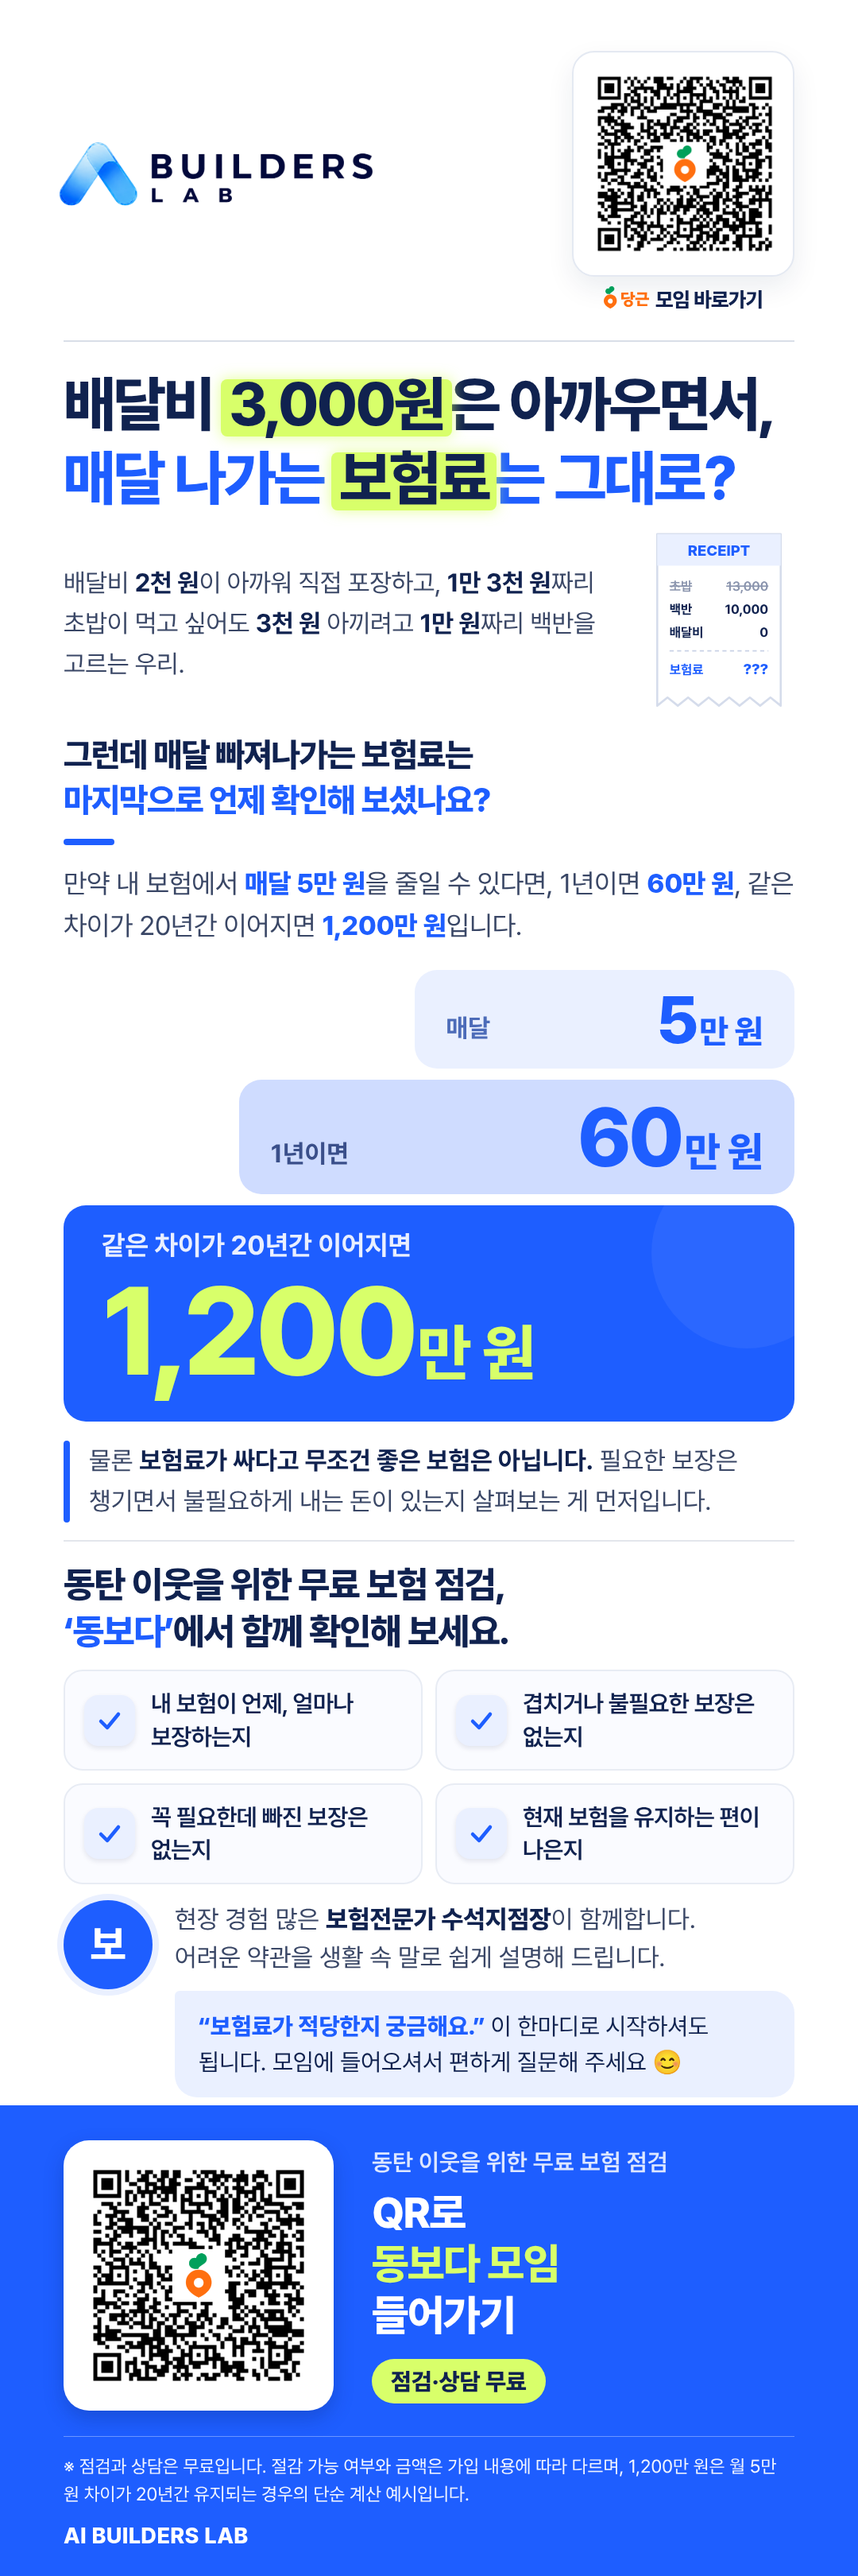
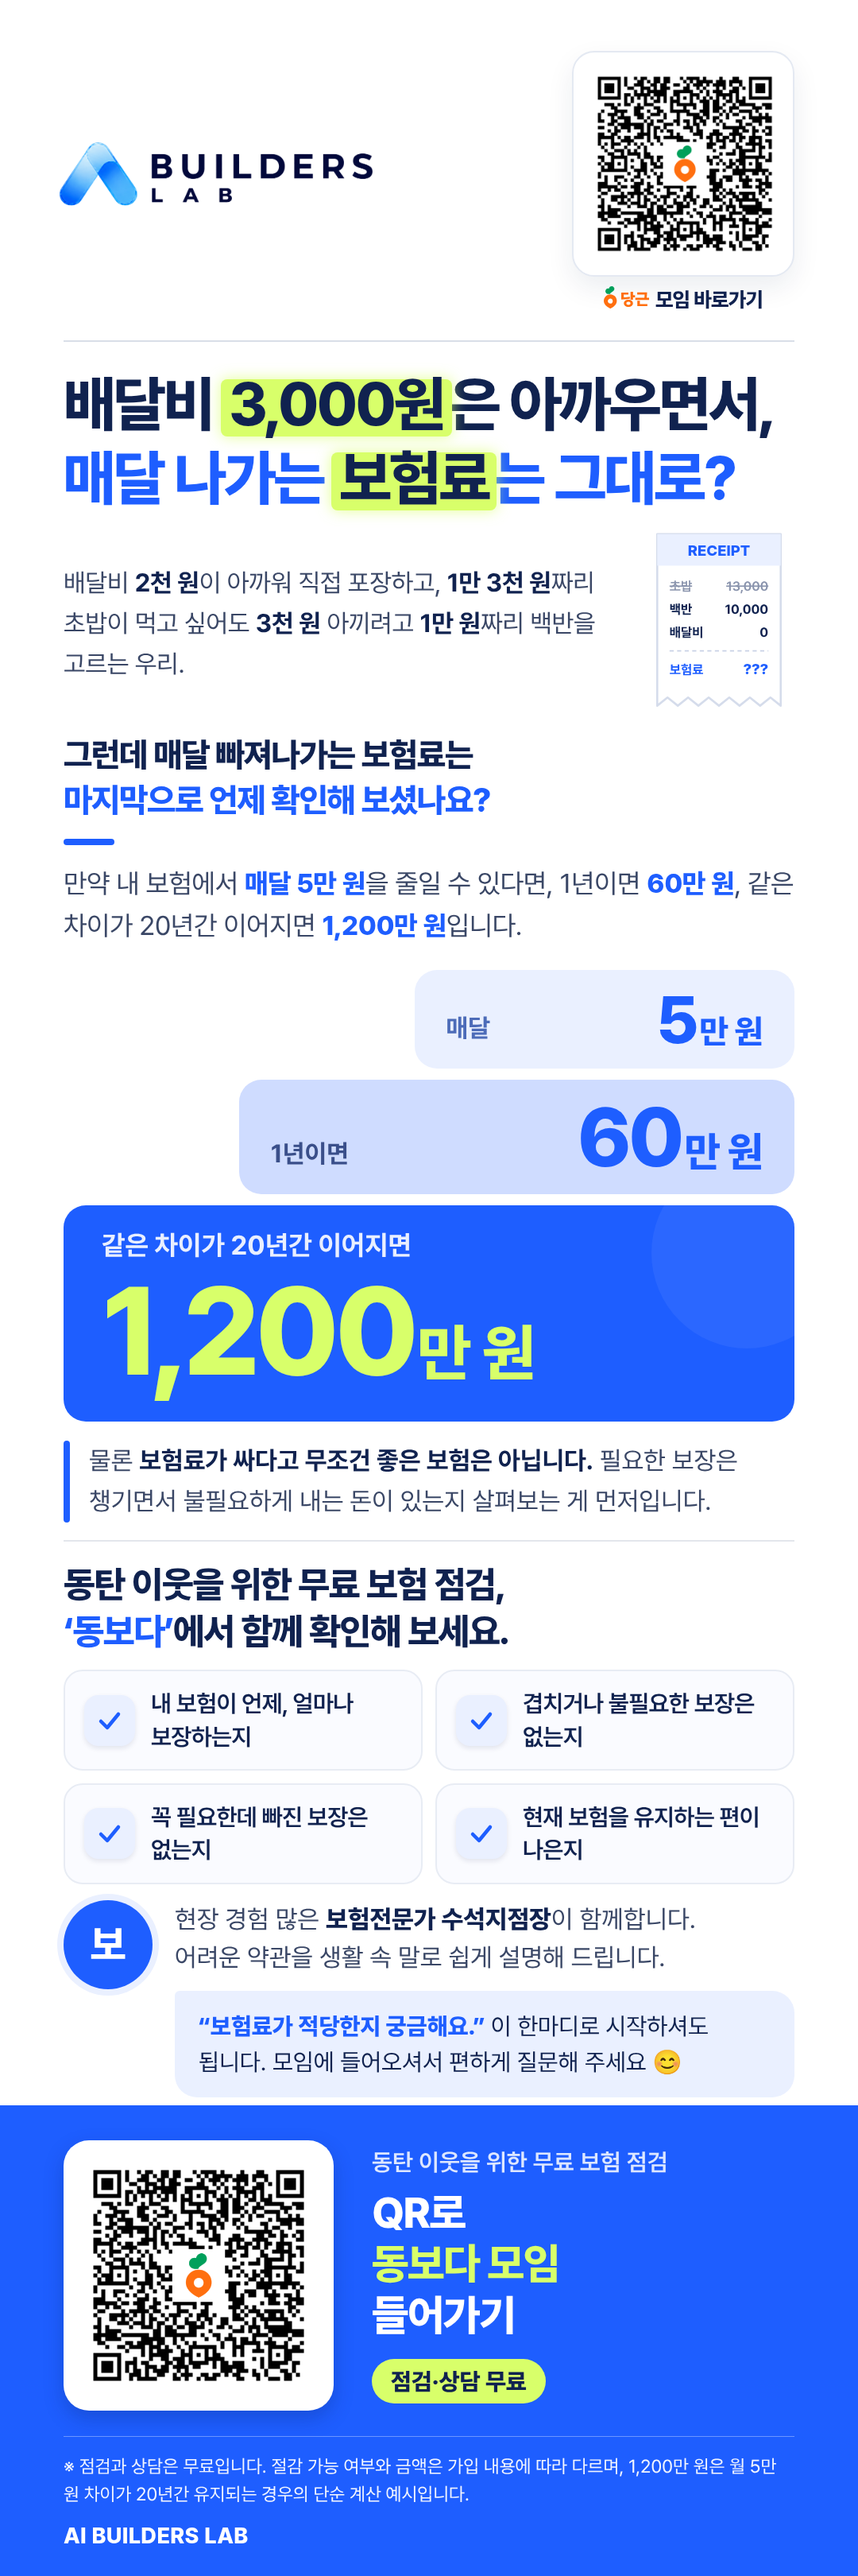
시안 A 상단 QR을 동보다 모임 링크로 되돌린다
헤더 로고·카드·구분선 위치는 그대로 두고, 상단·하단 QR 모두 동보다 모임(be5qh1ZYjOL)을 가리키게 한다.

Changed region(s): [[0.7028, 0.0312, 0.9167, 0.0935]]

diff --git a/design/poster-A.html b/design/poster-A.html
@@ -170,7 +170,7 @@
       <img class="logo" src="../logo.png" alt="AI BUILDERS LAB">
       <div class="top-qr">
         <div class="top-qr-card">
-          <img src="../aibuilders-daangn-qr.png" width="248" height="248" alt="당근모임 바로가기 QR">
+          <img src="../daangn-qr.png" width="248" height="248" alt="당근모임 바로가기 QR">
         </div>
         <p class="top-qr-cap"><img class="dlogo" src="../daangn-logo.svg" alt="당근">모임 바로가기</p>
       </div>
